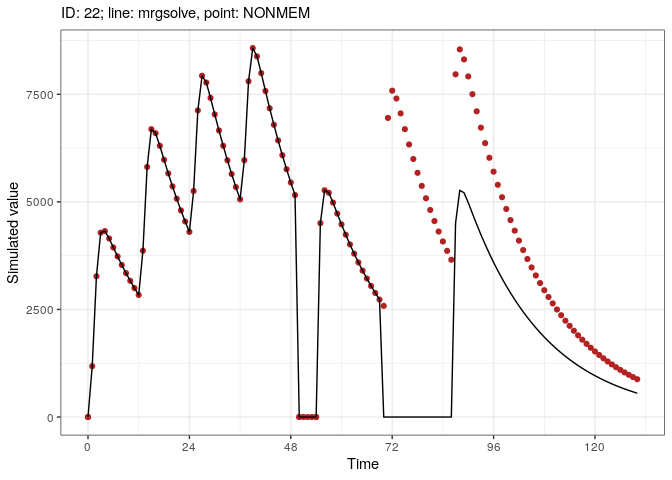
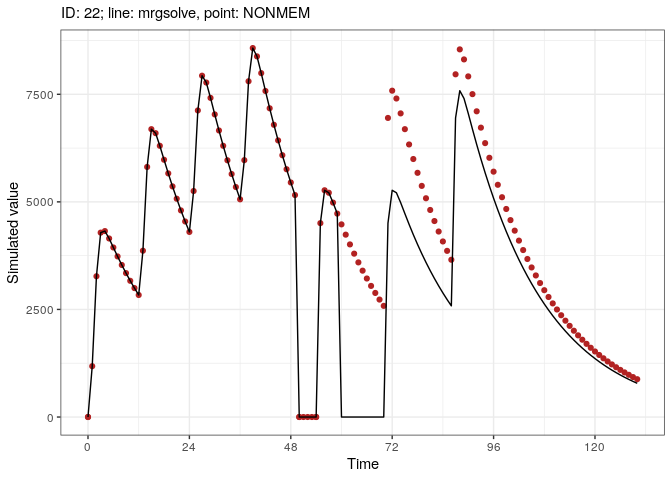
checking in test with bad evid3/alag

diff --git a/dosing/dosing-vignette.md b/dosing/dosing-vignette.md
@@ -84,7 +84,7 @@ Sys.setenv(RSTUDIO_PANDOC = "/usr/lib/rstudio-server/bin/pandoc")
 ```
 
 ``` r
-mrgsolve.loc <- NULL
+mrgsolve.loc <- NULL # "/data/home/Rlibs/"
 library(mrgsolve, lib.loc = mrgsolve.loc)
 ```
 
@@ -169,7 +169,7 @@ summary(comp$diff)
 ```
 
     .     Min.  1st Qu.   Median     Mean  3rd Qu.     Max. 
-    . -7583.80     0.00     0.00   -47.53     0.00     0.00
+    . -4477.00     0.00     0.00   -25.82     0.00     0.00
 
 ## Summary by scenario number
 
@@ -182,32 +182,32 @@ group_by(comp, ID) %>%
   kable()
 ```
 
-|  ID |      mean | max |     min |
-|----:|----------:|----:|--------:|
-|   1 |     0.000 |   0 |     0.0 |
-|   2 |     0.000 |   0 |     0.0 |
-|   3 |     0.000 |   0 |     0.0 |
-|   4 |     0.000 |   0 |     0.0 |
-|   5 |     0.000 |   0 |     0.0 |
-|   6 |     0.000 |   0 |     0.0 |
-|   7 |     0.000 |   0 |     0.0 |
-|   8 |     0.000 |   0 |     0.0 |
-|   9 |     0.000 |   0 |     0.0 |
-|  10 |     0.000 |   0 |     0.0 |
-|  11 |     0.000 |   0 |     0.0 |
-|  12 |     0.000 |   0 |     0.0 |
-|  13 |     0.000 |   0 |     0.0 |
-|  14 |     0.000 |   0 |     0.0 |
-|  15 |     0.000 |   0 |     0.0 |
-|  16 |     0.000 |   0 |     0.0 |
-|  17 |     0.000 |   0 |     0.0 |
-|  18 |     0.000 |   0 |     0.0 |
-|  19 |     0.000 |   0 |     0.0 |
-|  20 |     0.000 |   0 |     0.0 |
-|  21 |     0.000 |   0 |     0.0 |
-|  22 | -1126.084 |   0 | -7583.8 |
-|  23 |     0.000 |   0 |     0.0 |
-|  24 |     0.000 |   0 |     0.0 |
+|  ID |     mean | max |   min |
+|----:|---------:|----:|------:|
+|   1 |    0.000 |   0 |     0 |
+|   2 |    0.000 |   0 |     0 |
+|   3 |    0.000 |   0 |     0 |
+|   4 |    0.000 |   0 |     0 |
+|   5 |    0.000 |   0 |     0 |
+|   6 |    0.000 |   0 |     0 |
+|   7 |    0.000 |   0 |     0 |
+|   8 |    0.000 |   0 |     0 |
+|   9 |    0.000 |   0 |     0 |
+|  10 |    0.000 |   0 |     0 |
+|  11 |    0.000 |   0 |     0 |
+|  12 |    0.000 |   0 |     0 |
+|  13 |    0.000 |   0 |     0 |
+|  14 |    0.000 |   0 |     0 |
+|  15 |    0.000 |   0 |     0 |
+|  16 |    0.000 |   0 |     0 |
+|  17 |    0.000 |   0 |     0 |
+|  18 |    0.000 |   0 |     0 |
+|  19 |    0.000 |   0 |     0 |
+|  20 |    0.000 |   0 |     0 |
+|  21 |    0.000 |   0 |     0 |
+|  22 | -611.839 |   0 | -4477 |
+|  23 |    0.000 |   0 |     0 |
+|  24 |    0.000 |   0 |     0 |
 
 ``` r
 runs <- mutate(runs, plot = map(comp, comp_plot))
@@ -444,9 +444,9 @@ runs <- mutate(runs, plot = map(comp, comp_plot))
     . $ev
     . Events:
     .   ID time amt rate ii addl cmt evid BIOAV LAGT
-    . 1 22    0 100   50 12    3   1    1  0.61    0
-    . 2 22   50   0    0  0    0   2    3  1.00   20
-    . 3 22   54 120    0 16    2   1    1  1.00    0
+    . 1 22    0 100   50 12    3   1    1  0.61   10
+    . 2 22   50   0    0  0    0   2    3  1.00   10
+    . 3 22   54 120    0 16    2   1    1  1.00   10
     . 
     . $plot
 
